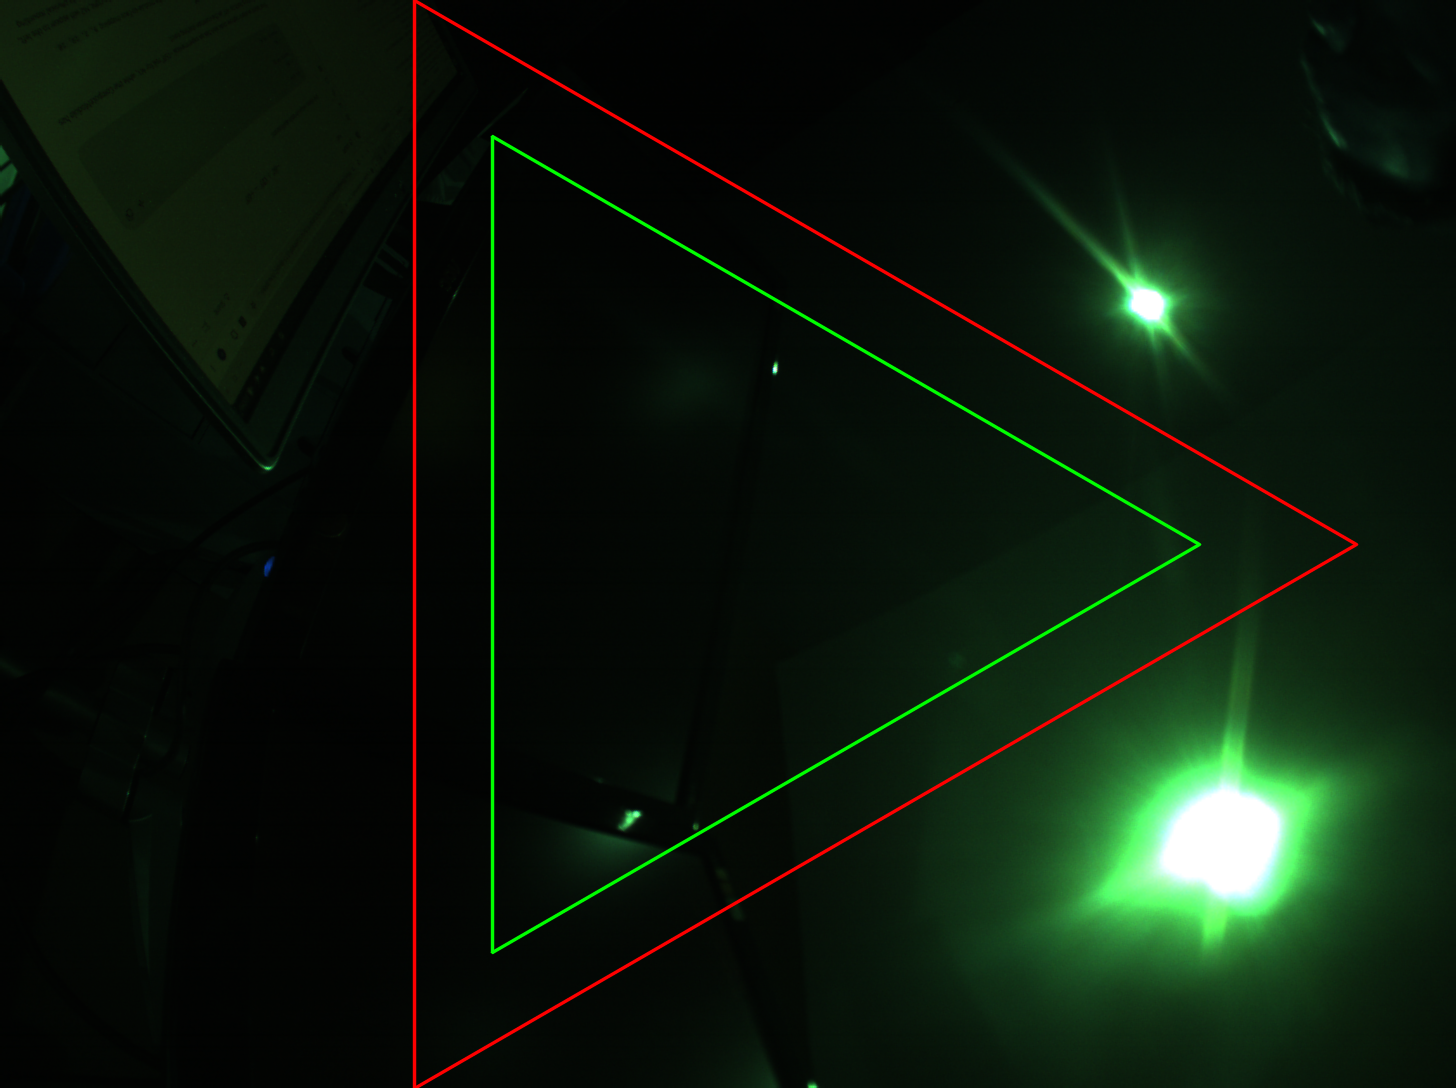
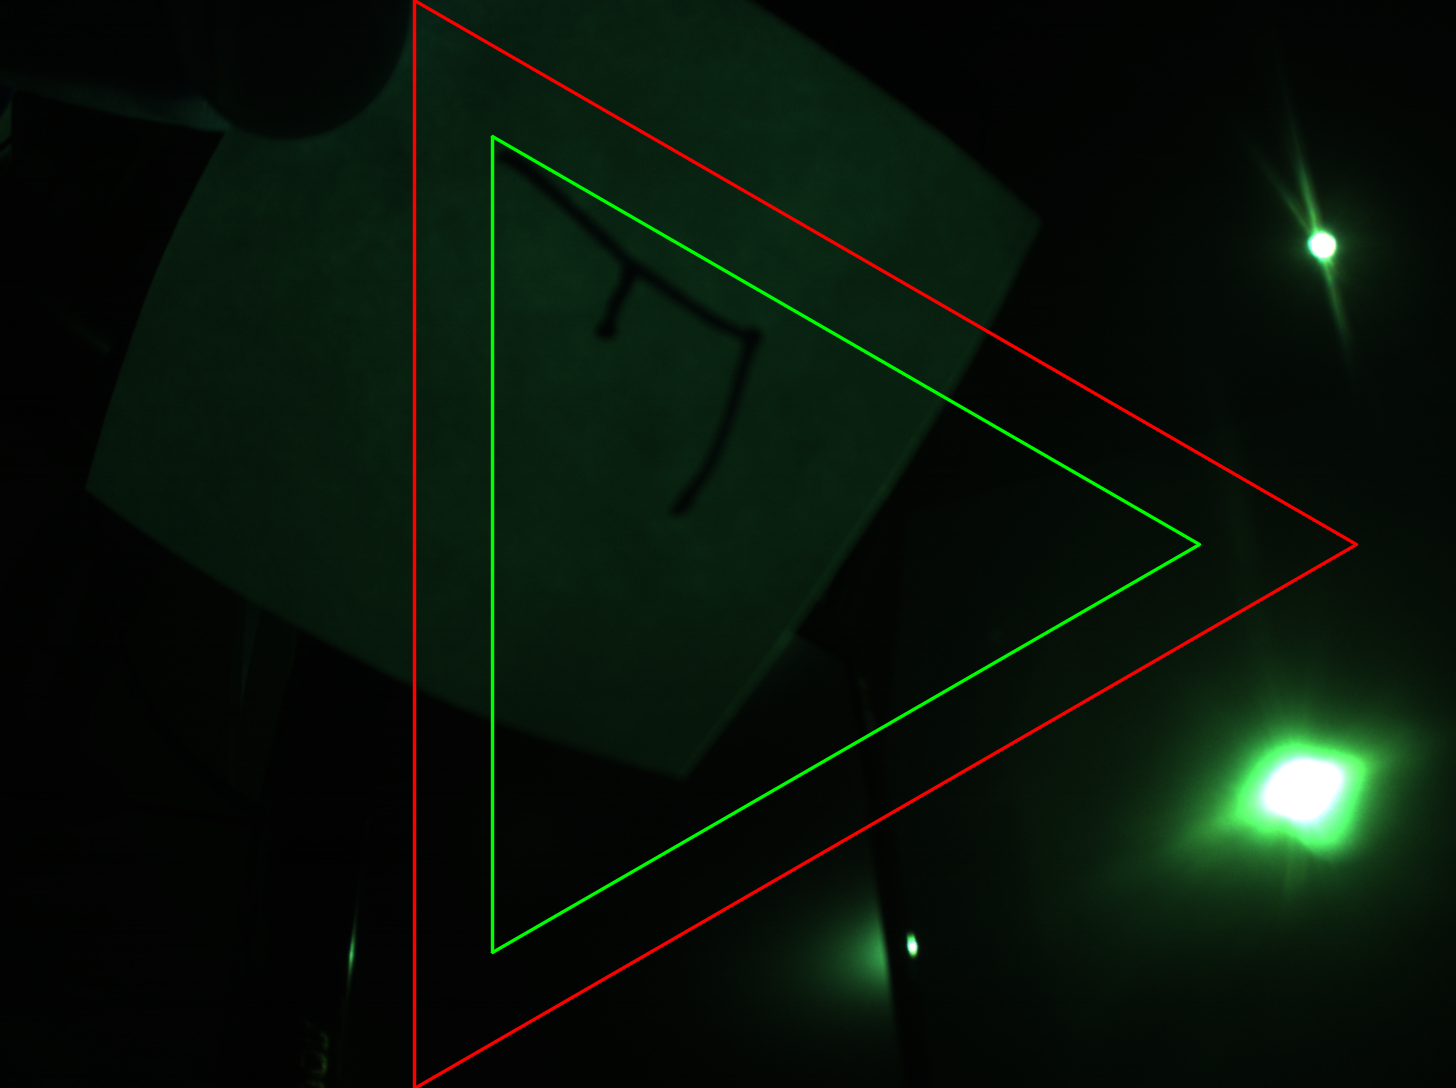
Mapping 4 cameras

diff --git a/software/src/computemodule/src/main.cpp b/software/src/computemodule/src/main.cpp
@@ -4105,9 +4105,9 @@ cv::Mat CompositePreprojectedFrames(
          streamIndex < liveCameras.size();
          ++streamIndex) {
          
-        if (liveCameras[streamIndex].localStreamIndex != 0) {
-            continue;
-        }    
+        //if (liveCameras[streamIndex].localStreamIndex != 0) {
+            //continue;
+        //}    
              
         cv::Mat frame;
 
